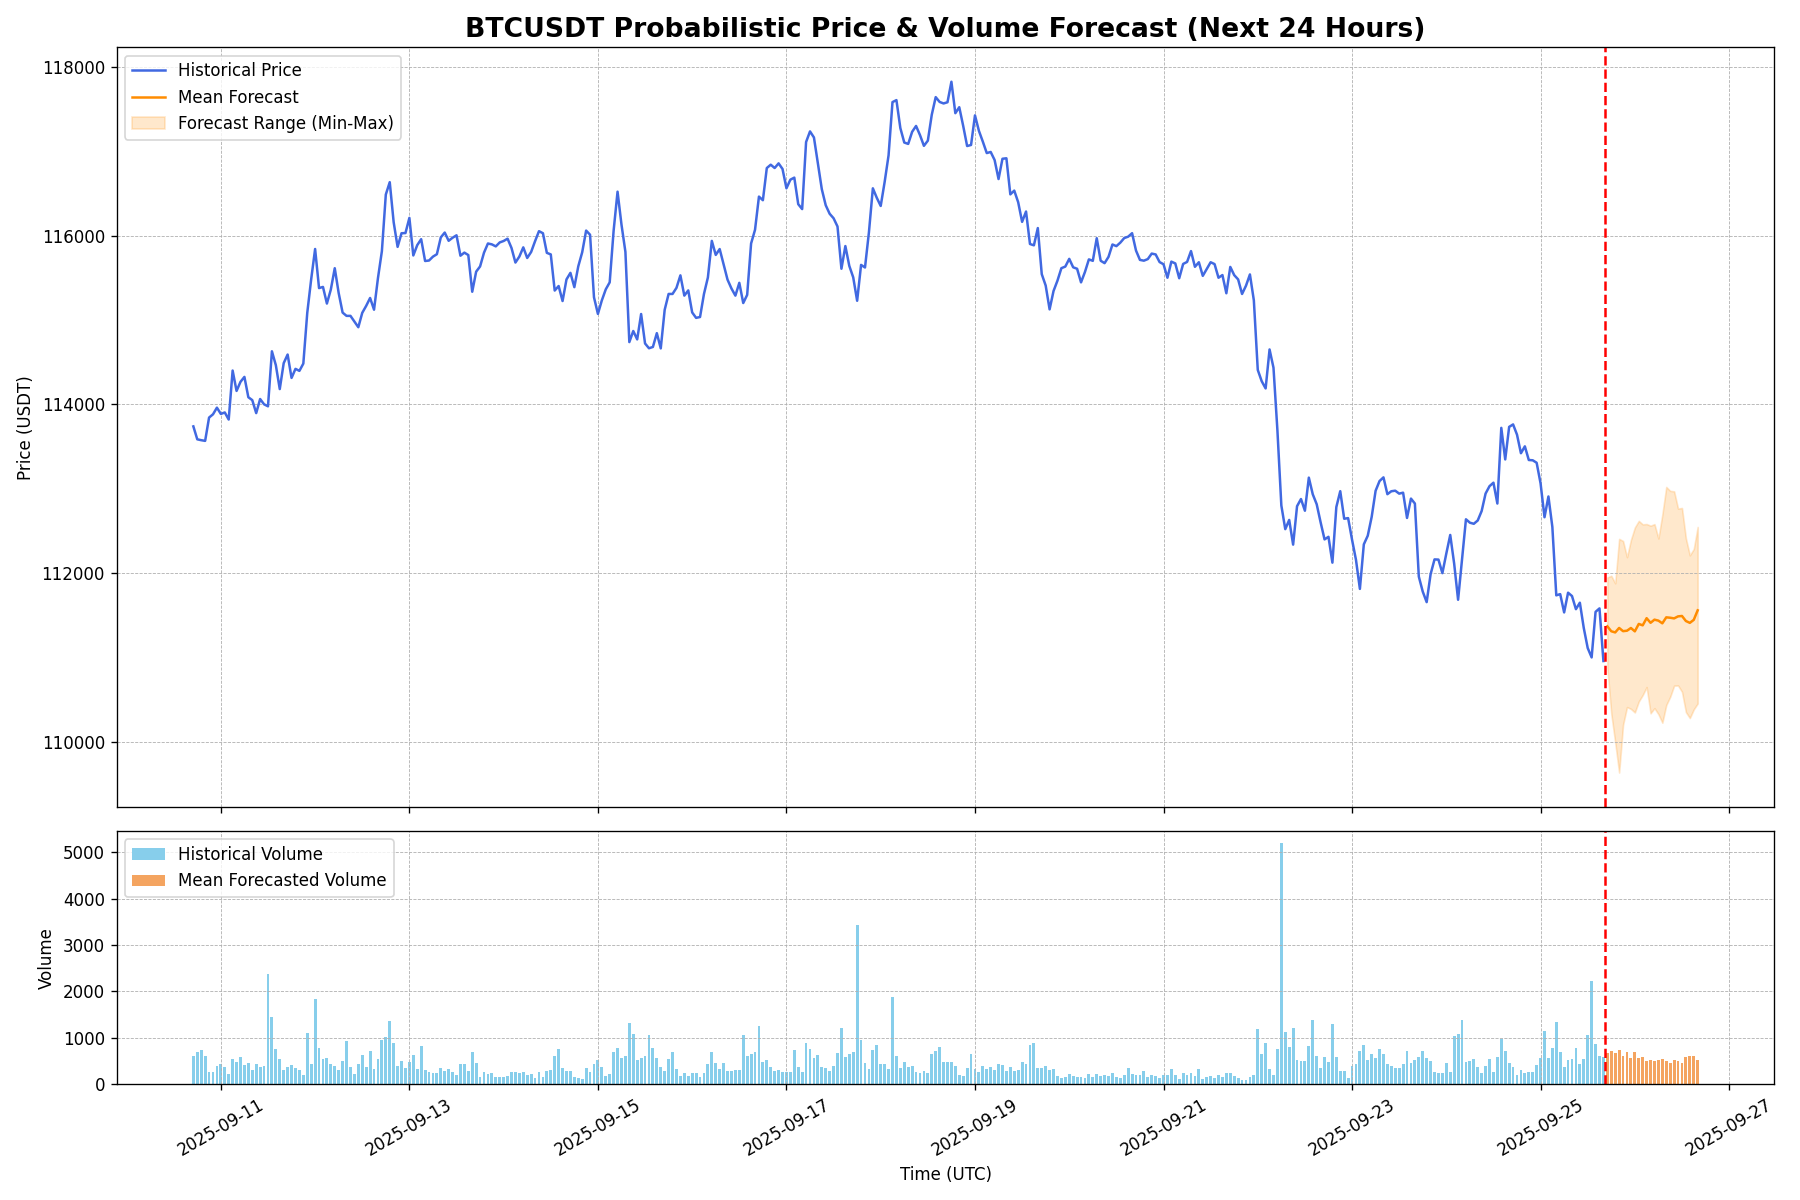
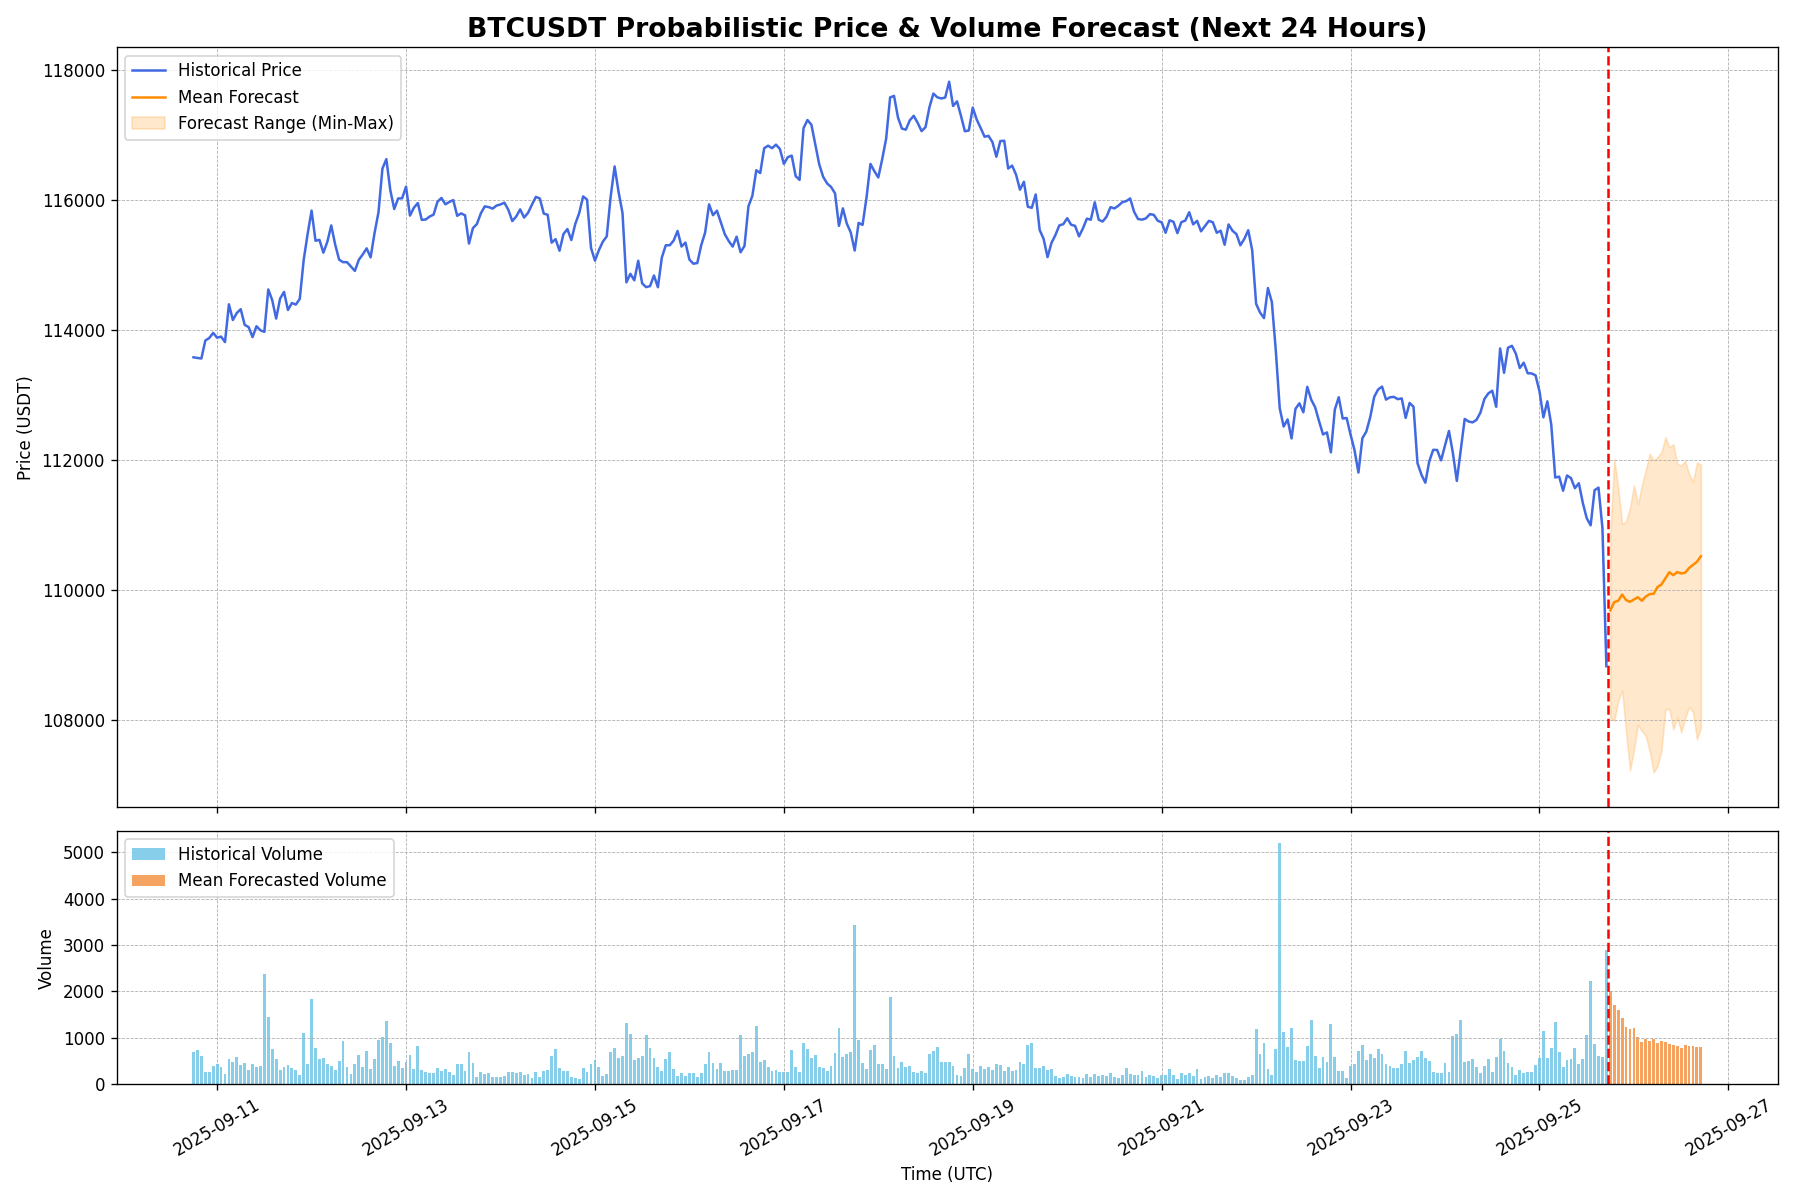
Auto commit

diff --git a/index.html b/index.html
@@ -286,7 +286,7 @@
         <section id="live-dashboard">
             <h2>BTC/USDT实时AI预测</h2>
             <div class="metadata">
-                <span>更新时间: <strong id="update-time">2025-09-25 17:00:22</strong>（北京时间+8小时）</span>
+                <span>更新时间: <strong id="update-time">2025-09-25 18:00:20</strong>（北京时间+8小时）</span>
                 <span>数据来源: 币安 | 1小时数据</span>
             </div>
 
@@ -297,7 +297,7 @@
                 </div>
                 <div class="metric-card">
                     <h3>未来12小时波动率</h3>
-                    <p class="metric-value" id="vol-amp-prob">13.3%</p>
+                    <p class="metric-value" id="vol-amp-prob">16.7%</p>
                 </div>
             </div>
 
